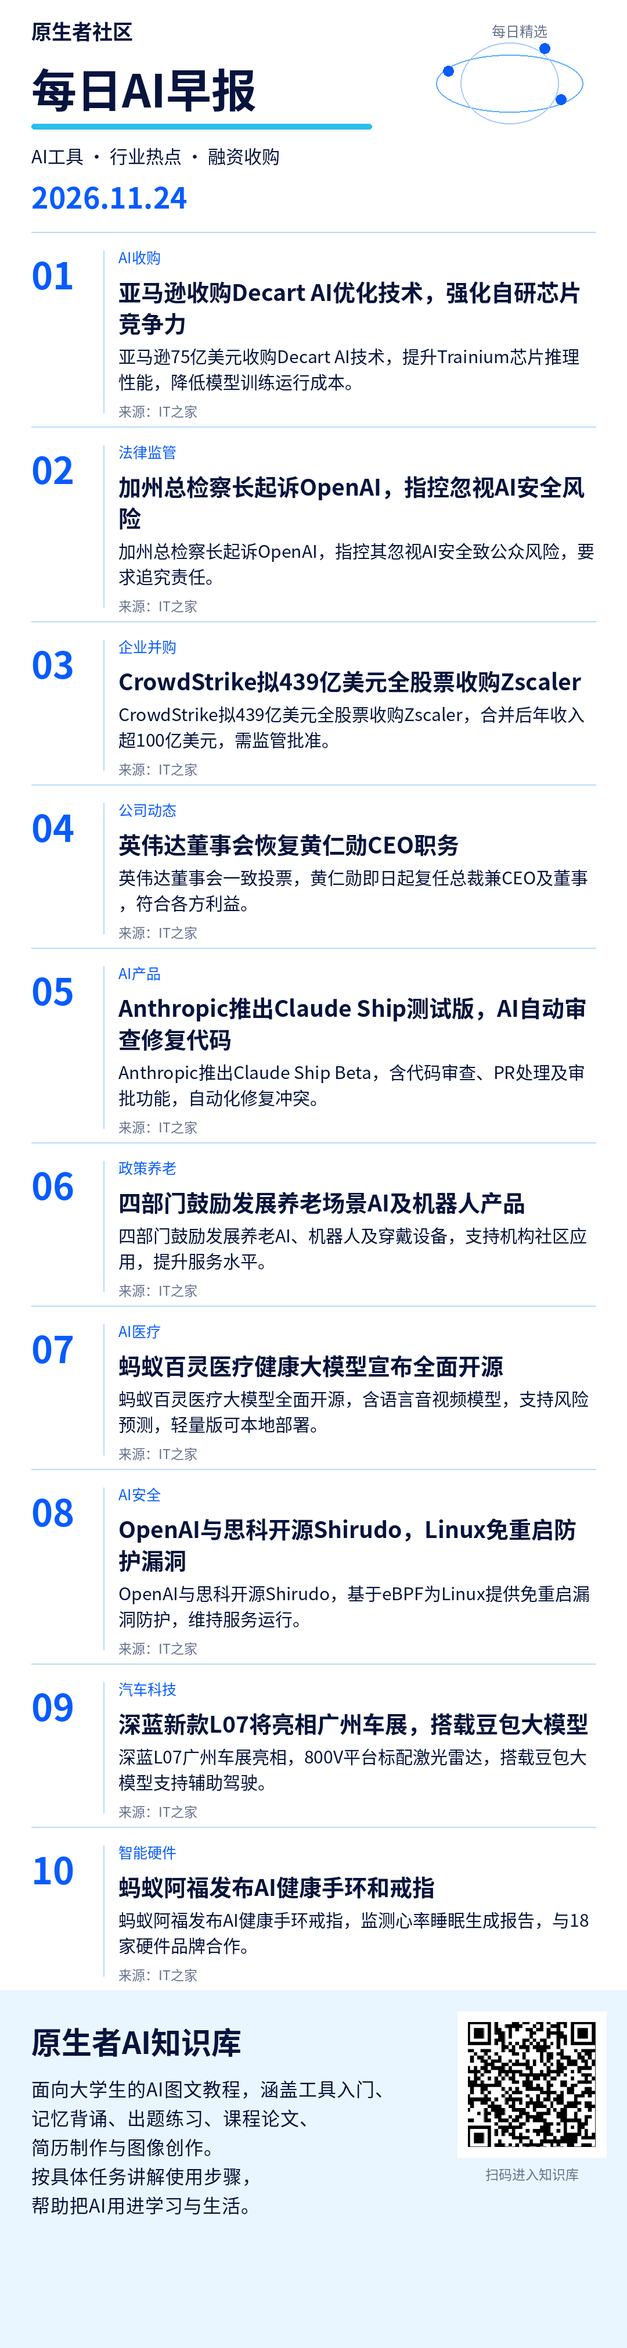
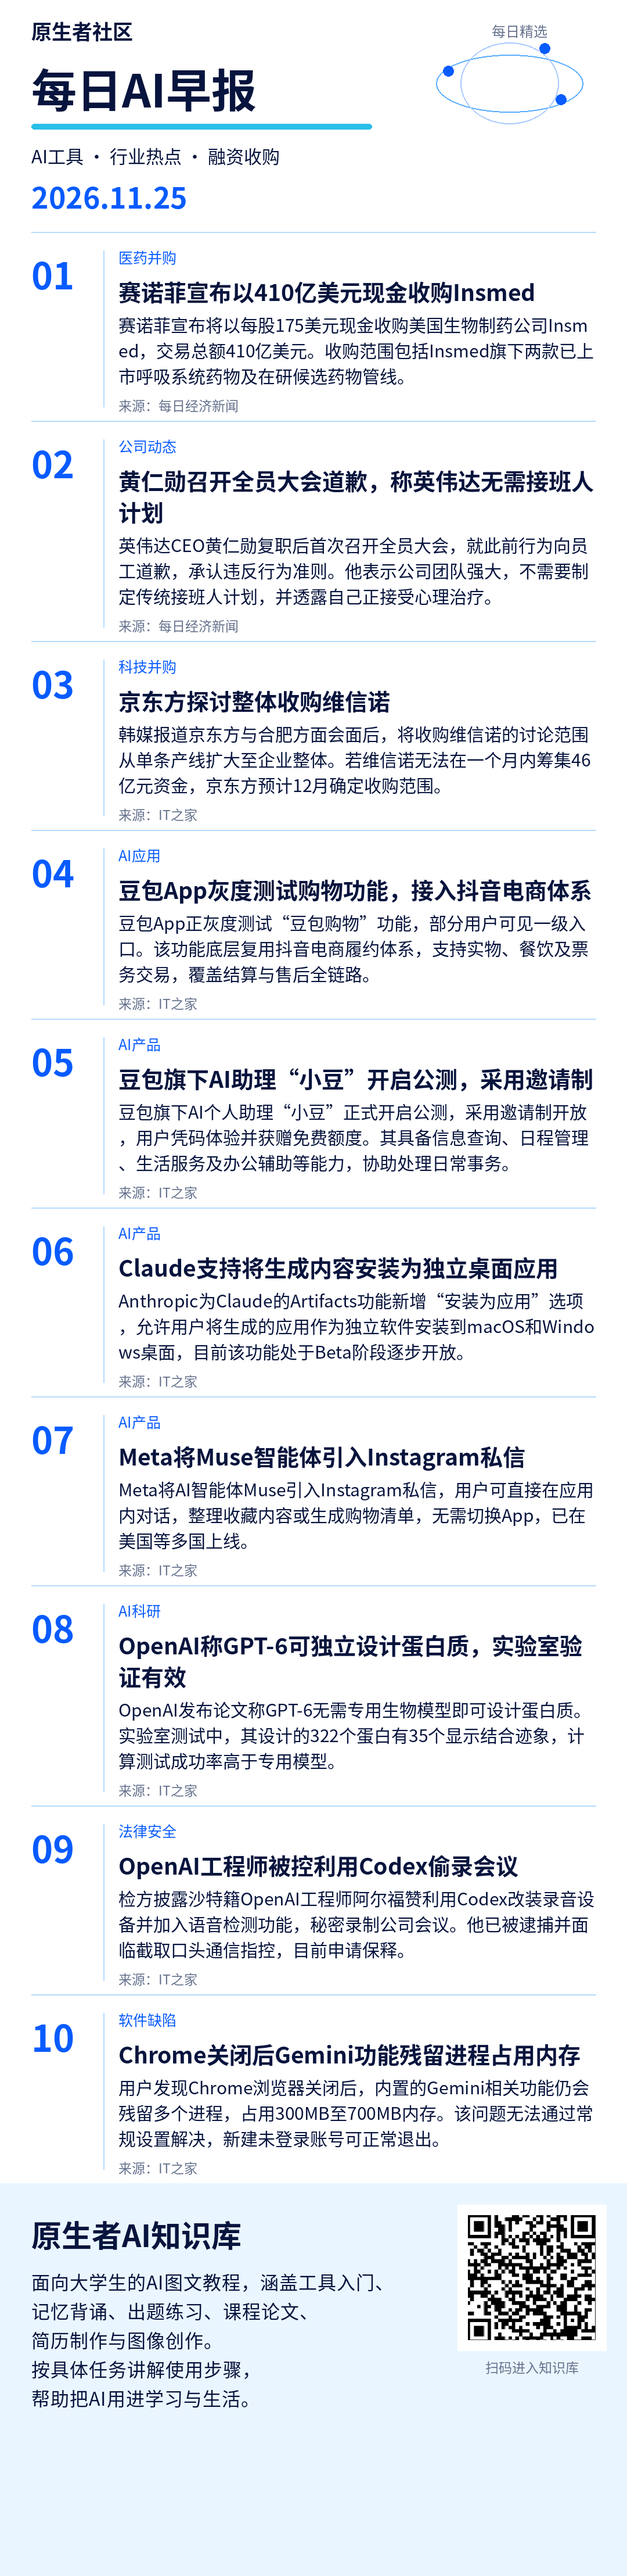
Publish mobile brief 2026-11-25

diff --git a/index.html b/index.html
@@ -2,16 +2,16 @@
 <html lang="zh-CN"><meta charset="utf-8"><meta name="viewport" content="width=device-width, initial-scale=1">
 <title>原生者社区 · 每日AI早报</title>
 <style>body{margin:0;background:#f4f6fa;color:#18263d;font-family:system-ui,sans-serif}main{max-width:680px;margin:auto;padding:24px 16px}h1{font-size:25px;margin:8px 0}p{line-height:1.7}small{color:#59677c}section{background:white;padding:20px;border-radius:16px;margin:20px 0}img{width:100%;height:auto;display:block}a,button{display:inline-block;background:#182f55;color:white;padding:12px 18px;border:0;border-radius:10px;text-decoration:none;font-size:16px}textarea{box-sizing:border-box;width:100%;height:360px;border:1px solid #d5dce7;border-radius:10px;padding:12px;font:16px/1.7 system-ui;resize:vertical}#status{min-height:28px;color:#345786}</style>
-<main><small>原生者社区</small><h1>每日AI早报</h1><p>2026-11-24</p>
+<main><small>原生者社区</small><h1>每日AI早报</h1><p>2026-11-25</p>
 <section><h2>简报图片</h2><p>长按下面的图片，选择“保存图片”，即可发到群里。</p>
 <a href="brief.png" target="_blank" rel="noopener">打开完整图片</a><p></p><img src="brief.png" alt="原生者社区每日简报"></section>
-<section><h2>每日群发内容</h2><p><a href="https://www.ithome.com/1/031/262.htm" target="_blank" rel="noopener">亚马逊收购Decart AI优化技术，强化自研芯片竞争力</a></p><p><a href="https://www.ithome.com/1/030/921.htm" target="_blank" rel="noopener">加州总检察长起诉OpenAI，指控忽视AI安全风险</a></p><p><a href="https://wcno0em1rfbm.feishu.cn/wiki/C4eJwiC2SiXOStkRaEfcgUEUnxd" target="_blank" rel="noopener">OpenAI（ChatGPT、Codex）</a></p><textarea id="copy" readonly>1. 亚马逊收购Decart AI优化技术，强化自研芯片竞争力
-https://www.ithome.com/1/031/262.htm
+<section><h2>每日群发内容</h2><p><a href="https://www.nbd.com.cn/articles/2026-11-24/4657741.html" target="_blank" rel="noopener">赛诺菲宣布以410亿美元现金收购Insmed</a></p><p><a href="https://www.nbd.com.cn/articles/2026-11-25/4657914.html" target="_blank" rel="noopener">黄仁勋召开全员大会道歉，称英伟达无需接班人计划</a></p><p><a href="https://wcno0em1rfbm.feishu.cn/wiki/Ld1hwjofDiWyzYkZqQ6cstSnnCe" target="_blank" rel="noopener">文献阅读与论文写作AI工具</a></p><textarea id="copy" readonly>1. 赛诺菲宣布以410亿美元现金收购Insmed
+https://www.nbd.com.cn/articles/2026-11-24/4657741.html
 
-2. 加州总检察长起诉OpenAI，指控忽视AI安全风险
-https://www.ithome.com/1/030/921.htm
+2. 黄仁勋召开全员大会道歉，称英伟达无需接班人计划
+https://www.nbd.com.cn/articles/2026-11-25/4657914.html
 
-这篇 Codex 图文教程从安装、登录和界面讲到第一个本地任务，也整理办公、Git、插件与自动化的用法，适合初次接触时对照操作。
-https://wcno0em1rfbm.feishu.cn/wiki/C4eJwiC2SiXOStkRaEfcgUEUnxd</textarea><p></p>
+按工具用途浏览文献搜索、阅读、管理和语言修改的分工，适合刚接触课程论文、还不清楚该选哪类工具的同学。
+https://wcno0em1rfbm.feishu.cn/wiki/Ld1hwjofDiWyzYkZqQ6cstSnnCe</textarea><p></p>
 <button id="copyButton" type="button">复制群发内容</button><p id="status" role="status"></p></section></main>
 <script>document.getElementById('copyButton').onclick=async()=>{const t=document.getElementById('copy');const s=document.getElementById('status');try{await navigator.clipboard.writeText(t.value);s.textContent='已复制，可以粘贴到群里。';}catch(e){t.focus();t.select();t.setSelectionRange(0,t.value.length);try{if(!document.execCommand('copy'))throw Error();s.textContent='已复制，可以粘贴到群里。';}catch(e){s.textContent='已选中配文，请长按文字，选择复制。';}}};</script></html>

diff --git a/2026-11-25/81d7ce8e2ec83fba/index.html b/2026-11-25/81d7ce8e2ec83fba/index.html
@@ -1,0 +1,17 @@
+<!doctype html>
+<html lang="zh-CN"><meta charset="utf-8"><meta name="viewport" content="width=device-width, initial-scale=1">
+<title>原生者社区 · 每日AI早报</title>
+<style>body{margin:0;background:#f4f6fa;color:#18263d;font-family:system-ui,sans-serif}main{max-width:680px;margin:auto;padding:24px 16px}h1{font-size:25px;margin:8px 0}p{line-height:1.7}small{color:#59677c}section{background:white;padding:20px;border-radius:16px;margin:20px 0}img{width:100%;height:auto;display:block}a,button{display:inline-block;background:#182f55;color:white;padding:12px 18px;border:0;border-radius:10px;text-decoration:none;font-size:16px}textarea{box-sizing:border-box;width:100%;height:360px;border:1px solid #d5dce7;border-radius:10px;padding:12px;font:16px/1.7 system-ui;resize:vertical}#status{min-height:28px;color:#345786}</style>
+<main><small>原生者社区</small><h1>每日AI早报</h1><p>2026-11-25</p>
+<section><h2>简报图片</h2><p>长按下面的图片，选择“保存图片”，即可发到群里。</p>
+<a href="brief.png" target="_blank" rel="noopener">打开完整图片</a><p></p><img src="brief.png" alt="原生者社区每日简报"></section>
+<section><h2>每日群发内容</h2><p><a href="https://www.nbd.com.cn/articles/2026-11-24/4657741.html" target="_blank" rel="noopener">赛诺菲宣布以410亿美元现金收购Insmed</a></p><p><a href="https://www.nbd.com.cn/articles/2026-11-25/4657914.html" target="_blank" rel="noopener">黄仁勋召开全员大会道歉，称英伟达无需接班人计划</a></p><p><a href="https://wcno0em1rfbm.feishu.cn/wiki/Ld1hwjofDiWyzYkZqQ6cstSnnCe" target="_blank" rel="noopener">文献阅读与论文写作AI工具</a></p><textarea id="copy" readonly>1. 赛诺菲宣布以410亿美元现金收购Insmed
+https://www.nbd.com.cn/articles/2026-11-24/4657741.html
+
+2. 黄仁勋召开全员大会道歉，称英伟达无需接班人计划
+https://www.nbd.com.cn/articles/2026-11-25/4657914.html
+
+按工具用途浏览文献搜索、阅读、管理和语言修改的分工，适合刚接触课程论文、还不清楚该选哪类工具的同学。
+https://wcno0em1rfbm.feishu.cn/wiki/Ld1hwjofDiWyzYkZqQ6cstSnnCe</textarea><p></p>
+<button id="copyButton" type="button">复制群发内容</button><p id="status" role="status"></p></section></main>
+<script>document.getElementById('copyButton').onclick=async()=>{const t=document.getElementById('copy');const s=document.getElementById('status');try{await navigator.clipboard.writeText(t.value);s.textContent='已复制，可以粘贴到群里。';}catch(e){t.focus();t.select();t.setSelectionRange(0,t.value.length);try{if(!document.execCommand('copy'))throw Error();s.textContent='已复制，可以粘贴到群里。';}catch(e){s.textContent='已选中配文，请长按文字，选择复制。';}}};</script></html>

diff --git a/2026-11-25/index.html b/2026-11-25/index.html
@@ -1,0 +1,17 @@
+<!doctype html>
+<html lang="zh-CN"><meta charset="utf-8"><meta name="viewport" content="width=device-width, initial-scale=1">
+<title>原生者社区 · 每日AI早报</title>
+<style>body{margin:0;background:#f4f6fa;color:#18263d;font-family:system-ui,sans-serif}main{max-width:680px;margin:auto;padding:24px 16px}h1{font-size:25px;margin:8px 0}p{line-height:1.7}small{color:#59677c}section{background:white;padding:20px;border-radius:16px;margin:20px 0}img{width:100%;height:auto;display:block}a,button{display:inline-block;background:#182f55;color:white;padding:12px 18px;border:0;border-radius:10px;text-decoration:none;font-size:16px}textarea{box-sizing:border-box;width:100%;height:360px;border:1px solid #d5dce7;border-radius:10px;padding:12px;font:16px/1.7 system-ui;resize:vertical}#status{min-height:28px;color:#345786}</style>
+<main><small>原生者社区</small><h1>每日AI早报</h1><p>2026-11-25</p>
+<section><h2>简报图片</h2><p>长按下面的图片，选择“保存图片”，即可发到群里。</p>
+<a href="brief.png" target="_blank" rel="noopener">打开完整图片</a><p></p><img src="brief.png" alt="原生者社区每日简报"></section>
+<section><h2>每日群发内容</h2><p><a href="https://www.nbd.com.cn/articles/2026-11-24/4657741.html" target="_blank" rel="noopener">赛诺菲宣布以410亿美元现金收购Insmed</a></p><p><a href="https://www.nbd.com.cn/articles/2026-11-25/4657914.html" target="_blank" rel="noopener">黄仁勋召开全员大会道歉，称英伟达无需接班人计划</a></p><p><a href="https://wcno0em1rfbm.feishu.cn/wiki/Ld1hwjofDiWyzYkZqQ6cstSnnCe" target="_blank" rel="noopener">文献阅读与论文写作AI工具</a></p><textarea id="copy" readonly>1. 赛诺菲宣布以410亿美元现金收购Insmed
+https://www.nbd.com.cn/articles/2026-11-24/4657741.html
+
+2. 黄仁勋召开全员大会道歉，称英伟达无需接班人计划
+https://www.nbd.com.cn/articles/2026-11-25/4657914.html
+
+按工具用途浏览文献搜索、阅读、管理和语言修改的分工，适合刚接触课程论文、还不清楚该选哪类工具的同学。
+https://wcno0em1rfbm.feishu.cn/wiki/Ld1hwjofDiWyzYkZqQ6cstSnnCe</textarea><p></p>
+<button id="copyButton" type="button">复制群发内容</button><p id="status" role="status"></p></section></main>
+<script>document.getElementById('copyButton').onclick=async()=>{const t=document.getElementById('copy');const s=document.getElementById('status');try{await navigator.clipboard.writeText(t.value);s.textContent='已复制，可以粘贴到群里。';}catch(e){t.focus();t.select();t.setSelectionRange(0,t.value.length);try{if(!document.execCommand('copy'))throw Error();s.textContent='已复制，可以粘贴到群里。';}catch(e){s.textContent='已选中配文，请长按文字，选择复制。';}}};</script></html>
